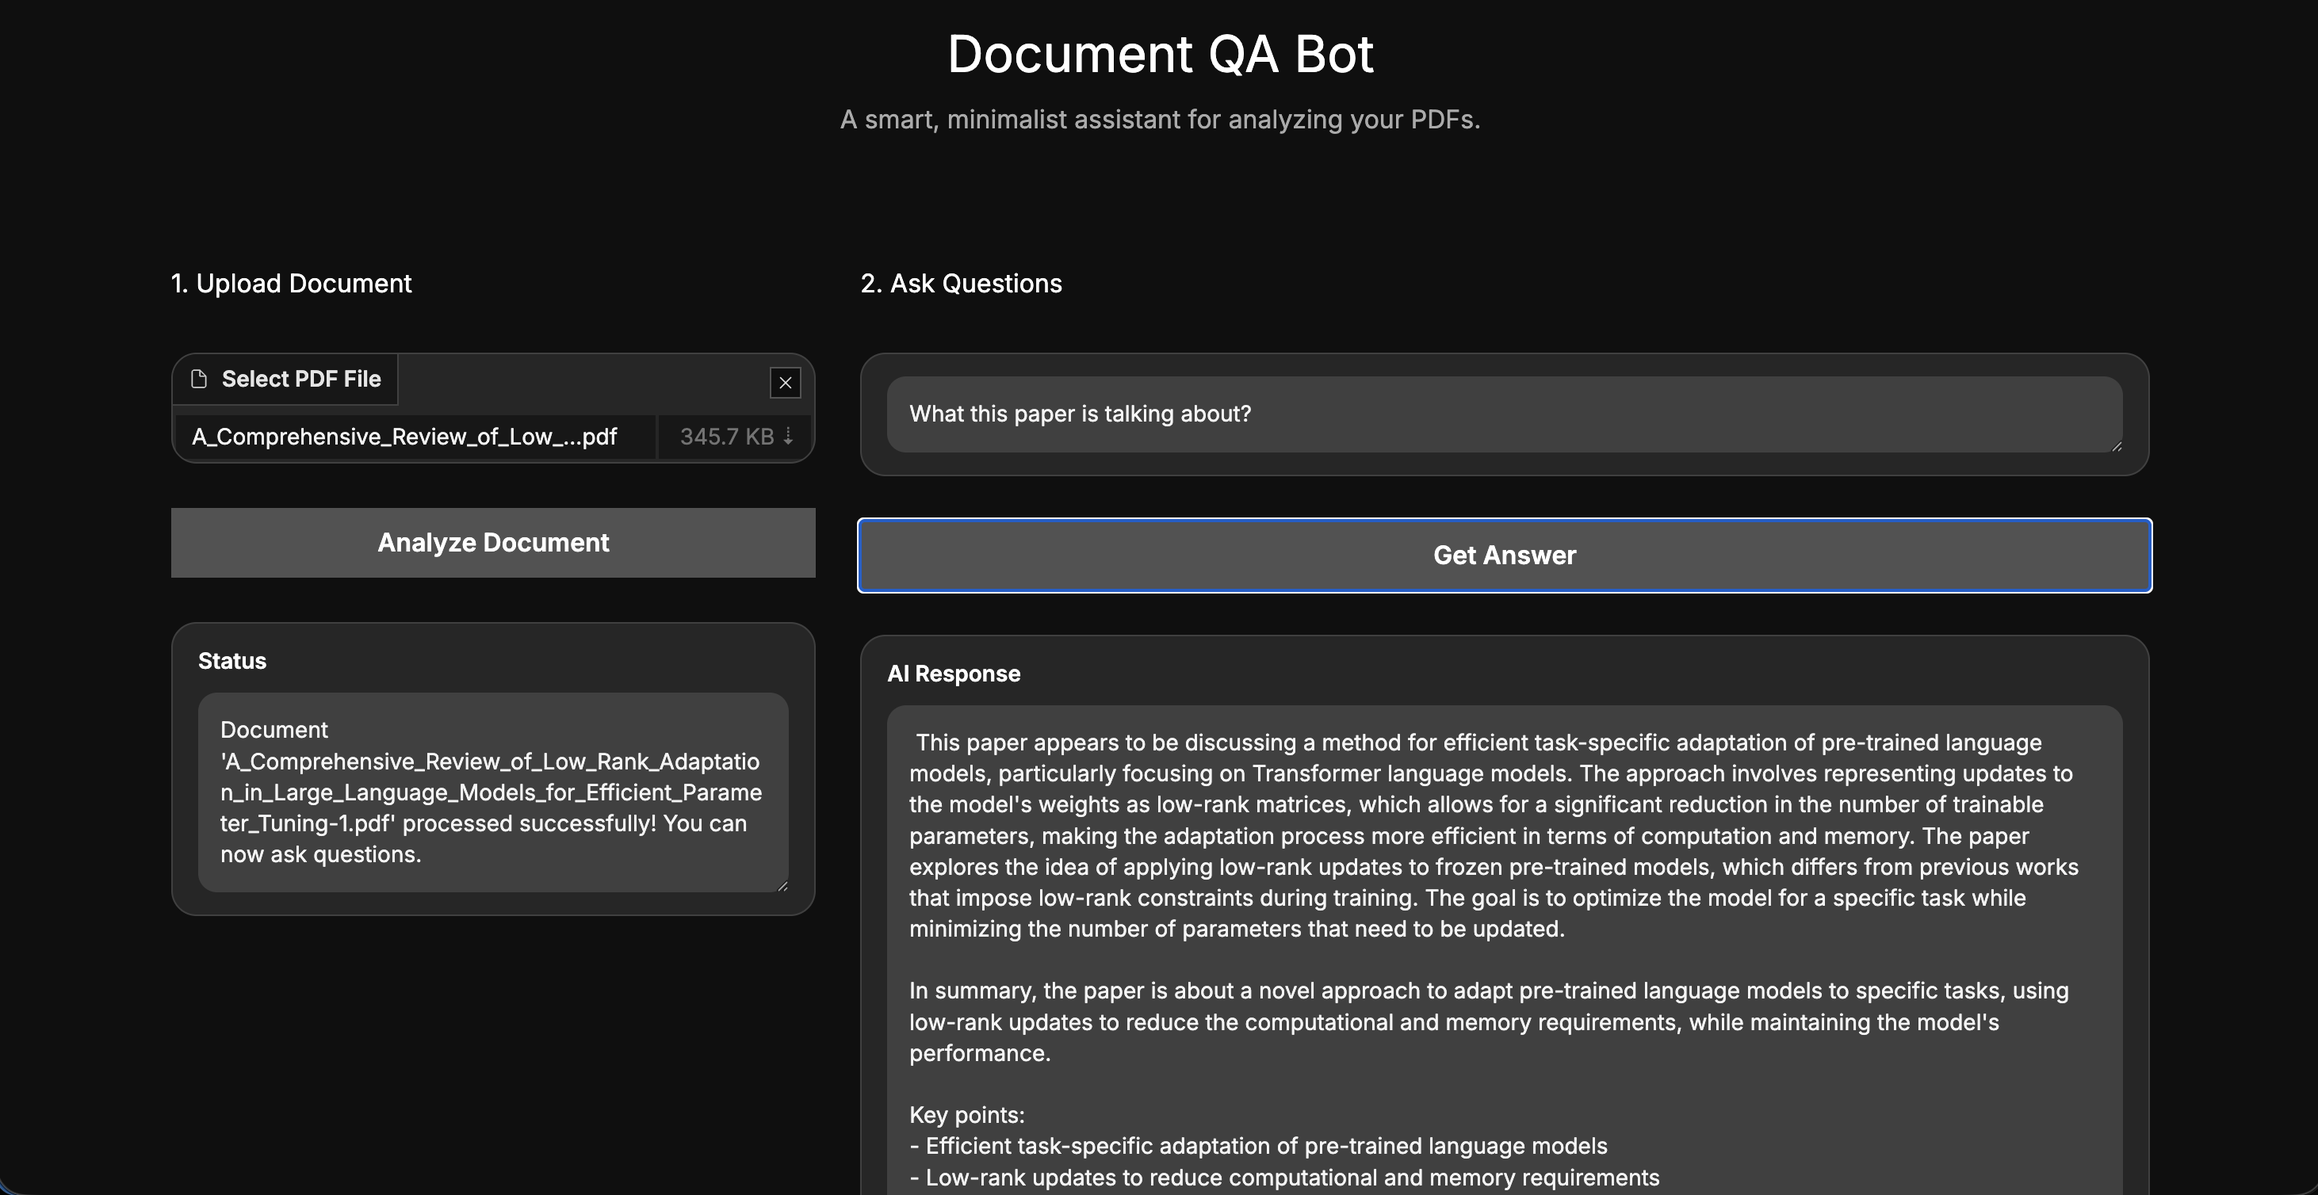
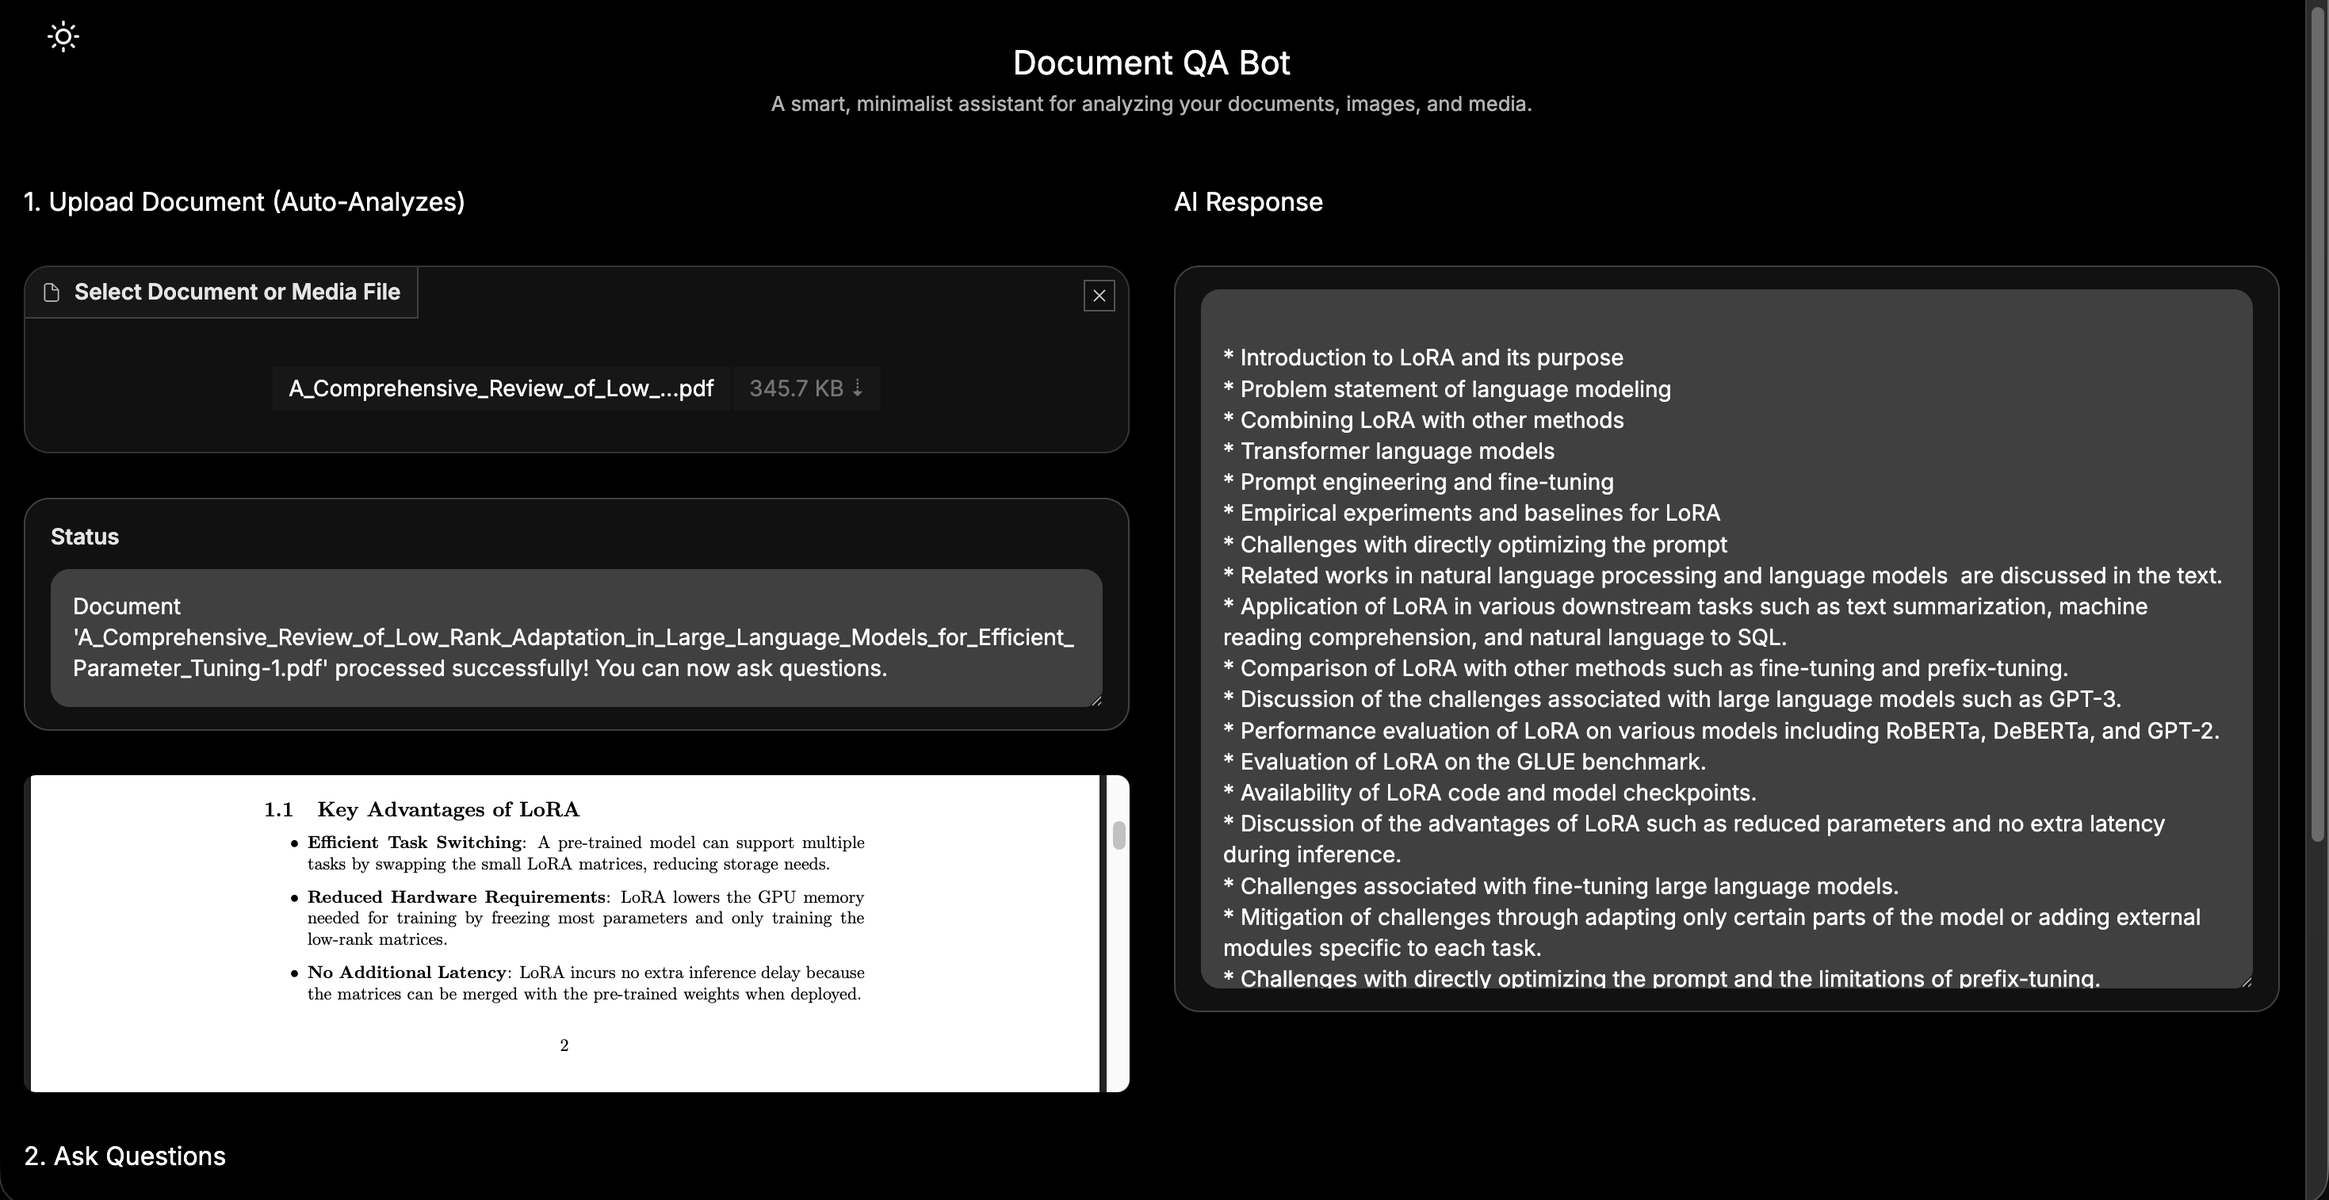
feat(ai): update GenAI RAG pipeline, embeddings, and LangChain retrieval chain

diff --git a/app.py b/app.py
@@ -7,7 +7,15 @@ from dotenv import load_dotenv
 import requests
 from typing import Any, List, Mapping, Optional
 from langchain.llms.base import LLM
-from langchain_community.document_loaders import PyPDFLoader
+from langchain_community.document_loaders import PyPDFLoader, Docx2txtLoader, TextLoader, CSVLoader
+from langchain.docstore.document import Document
+import pandas as pd
+import pytesseract
+from PIL import Image
+import whisper
+import moviepy.editor as mp
+import warnings
+warnings.filterwarnings("ignore", message=".*FP16 is not supported on CPU.*")
 from langchain_text_splitters import RecursiveCharacterTextSplitter
 from langchain_chroma import Chroma
 from langchain.chains import RetrievalQA
@@ -56,10 +64,10 @@ class WatsonXRESTLLM(LLM):
             "input": prompt,
             "parameters": {
                 "decoding_method": "greedy",
-                "max_new_tokens": 400,
+                "max_new_tokens": 1500,
                 "min_new_tokens": 1,
                 "temperature": 0.5,
-                "stop_sequences": stop if stop else []
+                "stop_sequences": stop if stop else ["\nQuestion:", "Now, I have another question", "\nNow,"]
             },
             "model_id": self.model_id,
             "project_id": self.project_id
@@ -116,7 +124,7 @@ def get_llm():
         print("Using IBM Watsonx LLM...")
         parameters = {
             "decoding_method": "greedy",
-            "max_new_tokens": 200,
+            "max_new_tokens": 1500,
             "min_new_tokens": 1,
             "temperature": 0.5,
         }
@@ -153,11 +161,86 @@ def process_document(pdf_file):
     """
     global qa_chain
     if pdf_file is None:
-        return "Please upload a PDF file first."
+        return "Please upload a document first.", "<div style='text-align:center; color:#555;'>No file uploaded</div>"
+
+    preview_html = "<div style='text-align:center; color:#555;'>Preview not available</div>"
 
     # 1. Loading documents using LangChain
-    loader = PyPDFLoader(pdf_file.name)
-    documents = loader.load()
+    ext = os.path.splitext(pdf_file.name)[1].lower()
+    if ext == '.pdf':
+        preview_html = f'<iframe src="/file={pdf_file.name}" width="100%" height="200px" style="border:none; border-radius:8px;"></iframe>'
+        loader = PyPDFLoader(pdf_file.name)
+        documents = loader.load()
+    elif ext == '.docx':
+        preview_html = "<div style='padding:10px; color:#aaa;'>[Word Document Uploaded - Preview Not Supported]</div>"
+        loader = Docx2txtLoader(pdf_file.name)
+        documents = loader.load()
+    elif ext == '.txt':
+        try:
+            with open(pdf_file.name, 'r', encoding='utf-8') as f:
+                snippet = f.read(500)
+            preview_html = f'<div style="max-height:200px; overflow:auto; white-space:pre-wrap; font-size:12px; padding:10px; background:#111; border-radius:8px;">{snippet}...</div>'
+        except:
+            pass
+        loader = TextLoader(pdf_file.name)
+        documents = loader.load()
+    elif ext == '.csv':
+        try:
+            df = pd.read_csv(pdf_file.name)
+            preview_html = f'<div style="max-height:200px; overflow:auto; background:#111; color:#fff; padding:5px; font-size:12px; border-radius:8px;">{df.head(5).to_html()}</div>'
+        except:
+            pass
+        loader = CSVLoader(pdf_file.name)
+        documents = loader.load()
+    elif ext in ['.xlsx', '.xls']:
+        try:
+            df = pd.read_excel(pdf_file.name)
+            text_content = df.to_string()
+            preview_html = f'<div style="max-height:200px; overflow:auto; background:#111; color:#fff; padding:5px; font-size:12px; border-radius:8px;">{df.head(5).to_html()}</div>'
+        except:
+            text_content = ""
+        documents = [Document(page_content=text_content, metadata={"source": pdf_file.name})]
+    elif ext in ['.png', '.jpg', '.jpeg', '.gif']:
+        preview_html = f'<div style="display:flex; justify-content:center;"><img src="/file={pdf_file.name}" style="max-width:100%; max-height:200px; object-fit:contain; border-radius:8px;" /></div>'
+        # OCR for images
+        try:
+            text_content = pytesseract.image_to_string(Image.open(pdf_file.name))
+        except Exception as e:
+            return f"OCR failed: {str(e)}. (Ensure tesseract is installed via Homebrew)", preview_html
+        
+        import re
+        if len(re.findall(r'[a-zA-Z0-9]', text_content)) < 5:
+            return "No meaningful text could be found in this image. The bot can only read text documents, not pure images/logos.", preview_html
+        documents = [Document(page_content=text_content, metadata={"source": pdf_file.name})]
+    elif ext in ['.mp3', '.mp4']:
+        if ext == '.mp4':
+            preview_html = f'<div style="display:flex; justify-content:center;"><video controls src="/file={pdf_file.name}" style="max-width:100%; max-height:200px; border-radius:8px;"></video></div>'
+        else:
+            preview_html = f'<div style="display:flex; justify-content:center; padding: 20px;"><audio controls src="/file={pdf_file.name}"></audio></div>'
+            
+        audio_path = pdf_file.name
+        if ext == '.mp4':
+            # Extract audio
+            audio_path = pdf_file.name + ".mp3"
+            try:
+                clip = mp.VideoFileClip(pdf_file.name)
+                clip.audio.write_audiofile(audio_path, logger=None)
+            except Exception as e:
+                return f"Failed to extract audio from video: {str(e)}", preview_html
+        
+        # Transcribe with Whisper
+        try:
+            model = whisper.load_model("base")
+            result = model.transcribe(audio_path)
+            text_content = result["text"]
+        except Exception as e:
+            return f"Audio transcription failed: {str(e)}. (Ensure ffmpeg is installed via Homebrew)", preview_html
+            
+        if not text_content.strip():
+            return "No speech could be found in this media file.", preview_html
+        documents = [Document(page_content=text_content, metadata={"source": pdf_file.name})]
+    else:
+        return f"Unsupported file type: {ext}", preview_html
 
     # 2. Applying text splitting techniques
     text_splitter = RecursiveCharacterTextSplitter(
@@ -180,7 +263,9 @@ def process_document(pdf_file):
     
     prompt_template = """You are a helpful AI assistant analyzing a document. 
 Use the following pieces of context to answer the question at the end. 
-If you cannot find the exact answer in the context, provide the best summary or most relevant information you can find from the context. Do not just say "I don't know".
+If the context is empty, contains only junk characters, or does not contain enough information, simply reply with: "The uploaded document does not contain enough information to answer this question." Do NOT generate a long list of reasons and do NOT repeat yourself.
+Otherwise, provide only the answer and nothing else. Do not ask follow-up questions.
+Format your answer clearly: use bullet points and separate paragraphs to make it highly organized and easy to read.
 
 Context:
 {context}
@@ -198,7 +283,7 @@ Answer:"""
         chain_type_kwargs={"prompt": PROMPT}
     )
 
-    return f"Document '{os.path.basename(pdf_file.name)}' processed successfully! You can now ask questions."
+    return f"Document '{os.path.basename(pdf_file.name)}' processed successfully! You can now ask questions.", preview_html
 
 def answer_question(question):
     """
@@ -218,65 +303,135 @@ def answer_question(question):
 custom_theme = gr.themes.Monochrome(
     font=[gr.themes.GoogleFont("Inter"), "ui-sans-serif", "system-ui", "sans-serif"]
 ).set(
-    body_background_fill="#000000",
-    block_background_fill="#111111",
+    body_background_fill="#f5f5f5",
+    body_background_fill_dark="#000000",
+    block_background_fill="#ffffff",
+    block_background_fill_dark="#111111",
+    block_border_color="#dddddd",
+    block_border_color_dark="#333333",
     block_border_width="1px",
-    block_border_color="#333333",
     block_radius="16px",
     input_radius="12px",
-    button_primary_background_fill="#ffffff",
-    button_primary_background_fill_hover="#e5e5e5",
-    button_primary_text_color="#000000",
+    body_text_color="#000000",
+    body_text_color_dark="#ffffff",
+    button_primary_background_fill="#000000",
+    button_primary_background_fill_dark="#ffffff",
+    button_primary_text_color="#ffffff",
+    button_primary_text_color_dark="#000000",
 )
 
 css = """
-body, html { height: 100vh; margin: 0; padding: 0; overflow: hidden; background-color: #000000 !important; color: #ffffff !important; }
-gradio-app { height: 100vh !important; display: flex; flex-direction: column; }
-.gradio-container { height: 100vh !important; overflow: hidden !important; padding-top: 1rem !important; }
-#header { margin-bottom: 1rem; }
-.textbox textarea { color: #ffffff !important; border-radius: 12px !important; }
-label span { color: #ffffff !important; }
-.file-preview, .upload-container { border-radius: 12px !important; }
+/* Base styles */
+body, html { margin: 0; padding: 0; }
+gradio-app { display: flex; flex-direction: column; }
+.gradio-container { max-width: 100% !important; padding: 0.2rem 1rem !important; position: relative; }
+#header { margin-bottom: 0.2rem; }
+h3 { margin-top: 2px !important; margin-bottom: 2px !important; font-size: 1rem !important; }
+.upload-container, .file-preview { min-height: 80px !important; max-height: 80px !important; display: flex !important; justify-content: center !important; align-items: center !important; }
+.upload-container > div { padding: 0 !important; }
+footer { display: none !important; }
+
+/* Theme Toggle Button */
+#theme-toggle {
+    position: absolute;
+    top: 15px;
+    left: 15px;
+    cursor: pointer;
+    z-index: 1000;
+    background: none;
+    border: none;
+    padding: 0;
+    color: var(--body-text-color);
+}
+
+/* Fix for Examples (Tables) text color */
+.dark table, .dark th, .dark td { color: #ffffff !important; }
+body:not(.dark) table, body:not(.dark) th, body:not(.dark) td { color: #000000 !important; }
+
 """
 
 with gr.Blocks(theme=custom_theme, title="Document QA Bot", css=css) as demo:
+    gr.HTML("""
+        <button id="theme-toggle" onclick="
+            document.body.classList.toggle('dark');
+            const isDark = document.body.classList.contains('dark');
+            const sun = '<svg xmlns=\\'http://www.w3.org/2000/svg\\' width=\\'20\\' height=\\'20\\' viewBox=\\'0 0 24 24\\' fill=\\'none\\' stroke=\\'currentColor\\' stroke-width=\\'2\\' stroke-linecap=\\'round\\' stroke-linejoin=\\'round\\'><circle cx=\\'12\\' cy=\\'12\\' r=\\'5\\'></circle><line x1=\\'12\\' y1=\\'1\\' x2=\\'12\\' y2=\\'3\\'></line><line x1=\\'12\\' y1=\\'21\\' x2=\\'12\\' y2=\\'23\\'></line><line x1=\\'4.22\\' y1=\\'4.22\\' x2=\\'5.64\\' y2=\\'5.64\\'></line><line x1=\\'18.36\\' y1=\\'18.36\\' x2=\\'19.78\\' y2=\\'19.78\\'></line><line x1=\\'1\\' y1=\\'12\\' x2=\\'3\\' y2=\\'12\\'></line><line x1=\\'21\\' y1=\\'12\\' x2=\\'23\\' y2=\\'12\\'></line><line x1=\\'4.22\\' y1=\\'19.78\\' x2=\\'5.64\\' y2=\\'18.36\\'></line><line x1=\\'18.36\\' y1=\\'5.64\\' x2=\\'19.78\\' y2=\\'4.22\\'></line></svg>';
+            const moon = '<svg xmlns=\\'http://www.w3.org/2000/svg\\' width=\\'20\\' height=\\'20\\' viewBox=\\'0 0 24 24\\' fill=\\'none\\' stroke=\\'currentColor\\' stroke-width=\\'2\\' stroke-linecap=\\'round\\' stroke-linejoin=\\'round\\'><path d=\\'M21 12.79A9 9 0 1 1 11.21 3 7 7 0 0 0 21 12.79z\\'></path></svg>';
+            this.innerHTML = isDark ? sun : moon;
+        ">
+        <svg xmlns="http://www.w3.org/2000/svg" width="20" height="20" viewBox="0 0 24 24" fill="none" stroke="currentColor" stroke-width="2" stroke-linecap="round" stroke-linejoin="round"><circle cx="12" cy="12" r="5"></circle><line x1="12" y1="1" x2="12" y2="3"></line><line x1="12" y1="21" x2="12" y2="23"></line><line x1="4.22" y1="4.22" x2="5.64" y2="5.64"></line><line x1="18.36" y1="18.36" x2="19.78" y2="19.78"></line><line x1="1" y1="12" x2="3" y2="12"></line><line x1="21" y1="12" x2="23" y2="12"></line><line x1="4.22" y1="19.78" x2="5.64" y2="18.36"></line><line x1="18.36" y1="5.64" x2="19.78" y2="4.22"></line></svg>
+        </button>
+    """)
     with gr.Column(elem_id="header"):
         gr.Markdown(
             """
             <div style="text-align: center;">
-                <h1 style="font-size: 2rem; font-weight: 300; margin-bottom: 0; color: #ffffff;">Document QA Bot</h1>
-                <p style="color: #aaaaaa; font-size: 1rem; margin-top: 0.5rem;">A smart, minimalist assistant for analyzing your PDFs.</p>
+                <h1 style="font-size: 1.3rem; font-weight: 300; margin-bottom: 0; color: var(--body-text-color);">Document QA Bot</h1>
+                <p style="font-size: 0.8rem; margin-top: 0.1rem; color: var(--body-text-color); opacity: 0.7;">A smart, minimalist assistant for analyzing your documents, images, and media.</p>
             </div>
             """
         )
     
-    with gr.Row(equal_height=True):
+    with gr.Row():
         with gr.Column(scale=1, min_width=300):
-            gr.Markdown("<h3 style='color: #ffffff; margin-bottom: 5px; font-weight: 400;'>1. Upload Document</h3>")
-            pdf_input = gr.File(label="Select PDF File", file_types=[".pdf"])
-            process_btn = gr.Button("Analyze Document", variant="primary")
+            gr.Markdown("<h3 style='font-weight: 400; color: var(--body-text-color);'>1. Upload Document (Auto-Analyzes)</h3>")
+            pdf_input = gr.File(label="Select Document or Media File", file_types=[".pdf", ".docx", ".txt", ".csv", ".xlsx", ".xls", ".png", ".jpg", ".jpeg", ".gif", ".mp4", ".mp3"])
             status_output = gr.Textbox(label="Status", interactive=False, show_label=True, placeholder="Waiting for document...", lines=1)
-        
-        with gr.Column(scale=2, min_width=400):
-            gr.Markdown("<h3 style='color: #ffffff; margin-bottom: 5px; font-weight: 400;'>2. Ask Questions</h3>")
+            preview_area = gr.HTML(value="<div style='text-align:center; color:#555; padding: 10px; border: 1px dashed #333; border-radius: 8px;'>No preview available</div>")
+            
+            gr.Markdown("<h3 style='font-weight: 400; color: var(--body-text-color);'>2. Ask Questions</h3>")
             question_input = gr.Textbox(
                 label="Your Question", 
                 placeholder="e.g., What is the main conclusion of this paper?",
                 show_label=False,
                 lines=1
             )
-            ask_btn = gr.Button("Get Answer", variant="primary")
+            gr.Examples(
+                examples=[
+                    "What is the main conclusion of this document?",
+                    "Can you summarize the key points?",
+                    "What are the main topics discussed?",
+                    "What are the key takeaways from this text?",
+                    "Can you explain the main argument presented?",
+                    "What specific details or data are mentioned?"
+                ],
+                inputs=question_input
+            )
+            
+        with gr.Column(scale=1, min_width=300):
+            gr.Markdown("<h3 style='font-weight: 400; color: var(--body-text-color);'>AI Response</h3>")
             answer_output = gr.Textbox(
                 label="AI Response", 
-                lines=9, 
+                lines=15, 
                 interactive=False,
-                show_label=True,
-                placeholder="The AI's answer will appear here..."
+                show_label=False,
+                placeholder="The AI's answer will appear here in real-time..."
             )
 
-    # Wire up the buttons
-    process_btn.click(fn=process_document, inputs=[pdf_input], outputs=[status_output])
-    ask_btn.click(fn=answer_question, inputs=[question_input], outputs=[answer_output])
+    # Wire up the events
+    pdf_input.change(fn=process_document, inputs=[pdf_input], outputs=[status_output, preview_area])
+    question_input.change(fn=answer_question, inputs=[question_input], outputs=[answer_output])
+    question_input.submit(fn=answer_question, inputs=[question_input], outputs=[answer_output])
+    
+    # Footer
+    gr.HTML(
+        """
+        <div style='text-align: center; font-size: 0.8rem; margin-top: 1rem; margin-bottom: 0.5rem; display: flex; justify-content: center; align-items: center; gap: 10px; color: var(--body-text-color); opacity: 0.7;'>
+            <span>Wilbert Gamis 2026</span>
+            <span>&bull;</span>
+            <a href='https://github.com/WilWilbert123/GenAI-RAG-LangChain' target='_blank' style='text-decoration: none; color: inherit; display: flex; align-items: center; gap: 4px;'>
+                <svg height="16" width="16" viewBox="0 0 16 16" fill="currentColor">
+                    <path d="M8 0C3.58 0 0 3.58 0 8c0 3.54 2.29 6.53 5.47 7.59.4.07.55-.17.55-.38 0-.19-.01-.82-.01-1.49-2.01.37-2.53-.49-2.69-.94-.09-.23-.48-.94-.82-1.13-.28-.15-.68-.52-.01-.53.63-.01 1.08.58 1.23.82.72 1.21 1.87.87 2.33.66.07-.52.28-.87.51-1.07-1.78-.2-3.64-.89-3.64-3.95 0-.87.31-1.59.82-2.15-.08-.2-.36-1.02.08-2.12 0 0 .67-.21 2.2.82.64-.18 1.32-.27 2-.27.68 0 1.36.09 2 .27 1.53-1.04 2.2-.82 2.2-.82.44 1.1.16 1.92.08 2.12.51.56.82 1.27.82 2.15 0 3.07-1.87 3.75-3.65 3.95.29.25.54.73.54 1.48 0 1.07-.01 1.93-.01 2.2 0 .21.15.46.55.38A8.013 8.013 0 0016 8c0-4.42-3.58-8-8-8z"></path>
+                </svg>
+                GitHub
+            </a>
+            <span>&bull;</span>
+            <span>Use via API</span>
+            <span>&bull;</span>
+            <span>Built with Gradio</span>
+        </div>
+        """
+    )
 
 if __name__ == "__main__":
     demo.launch(share=True)
